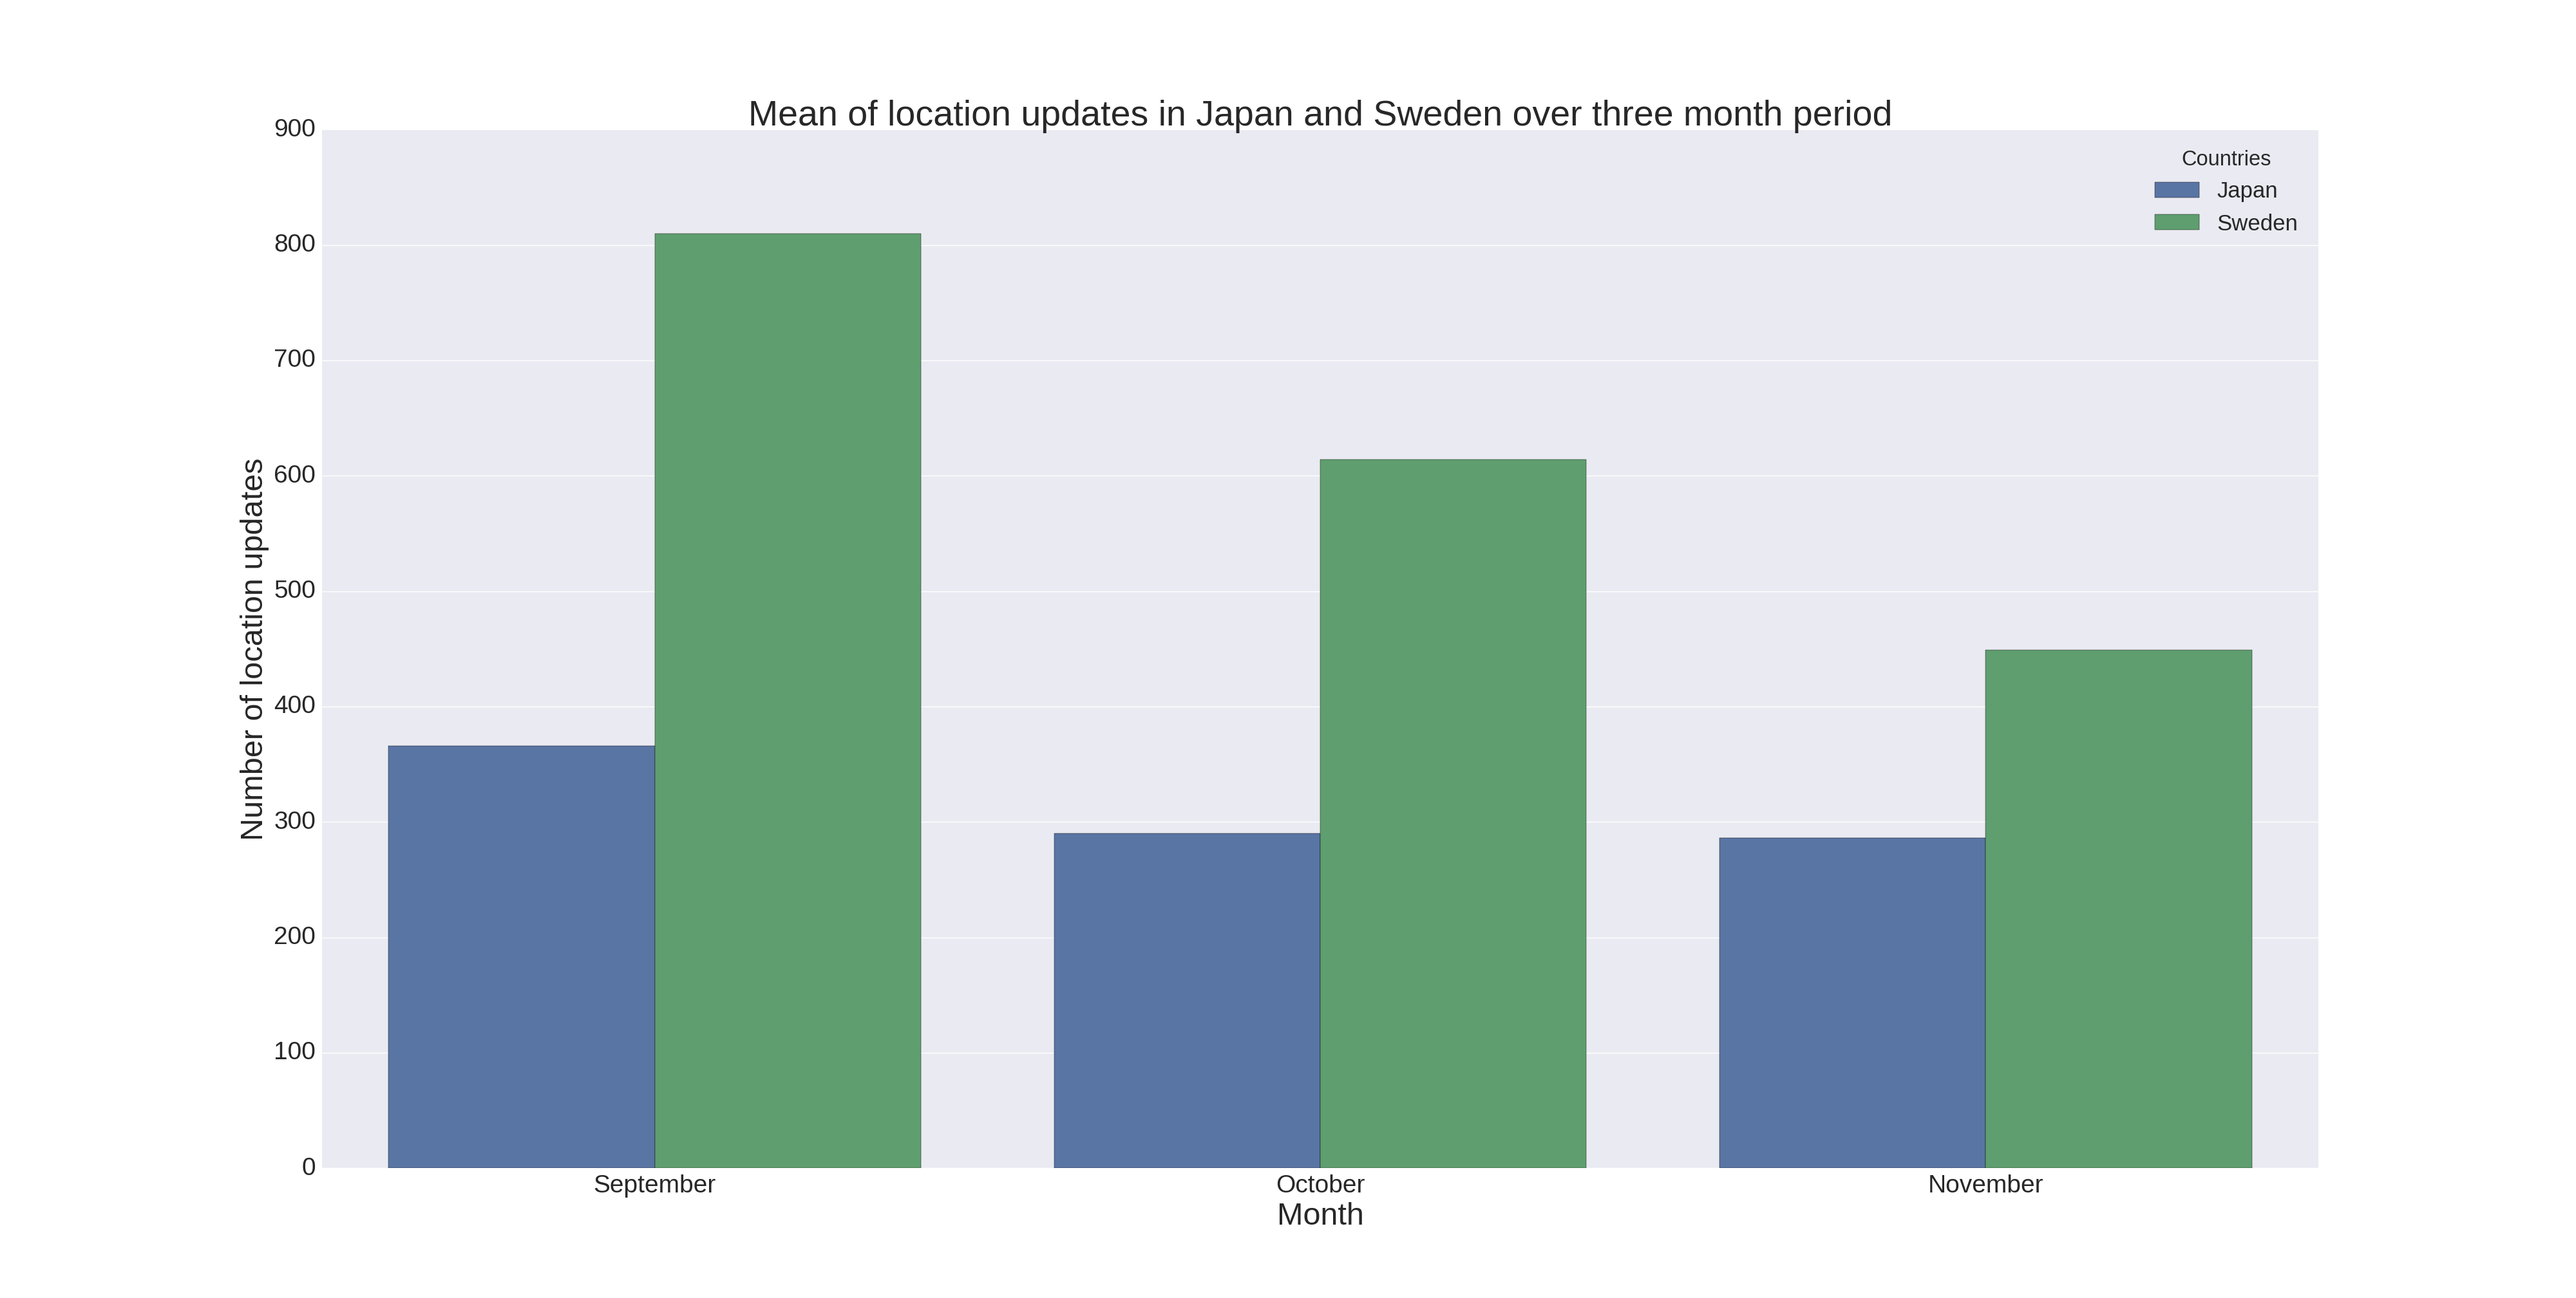
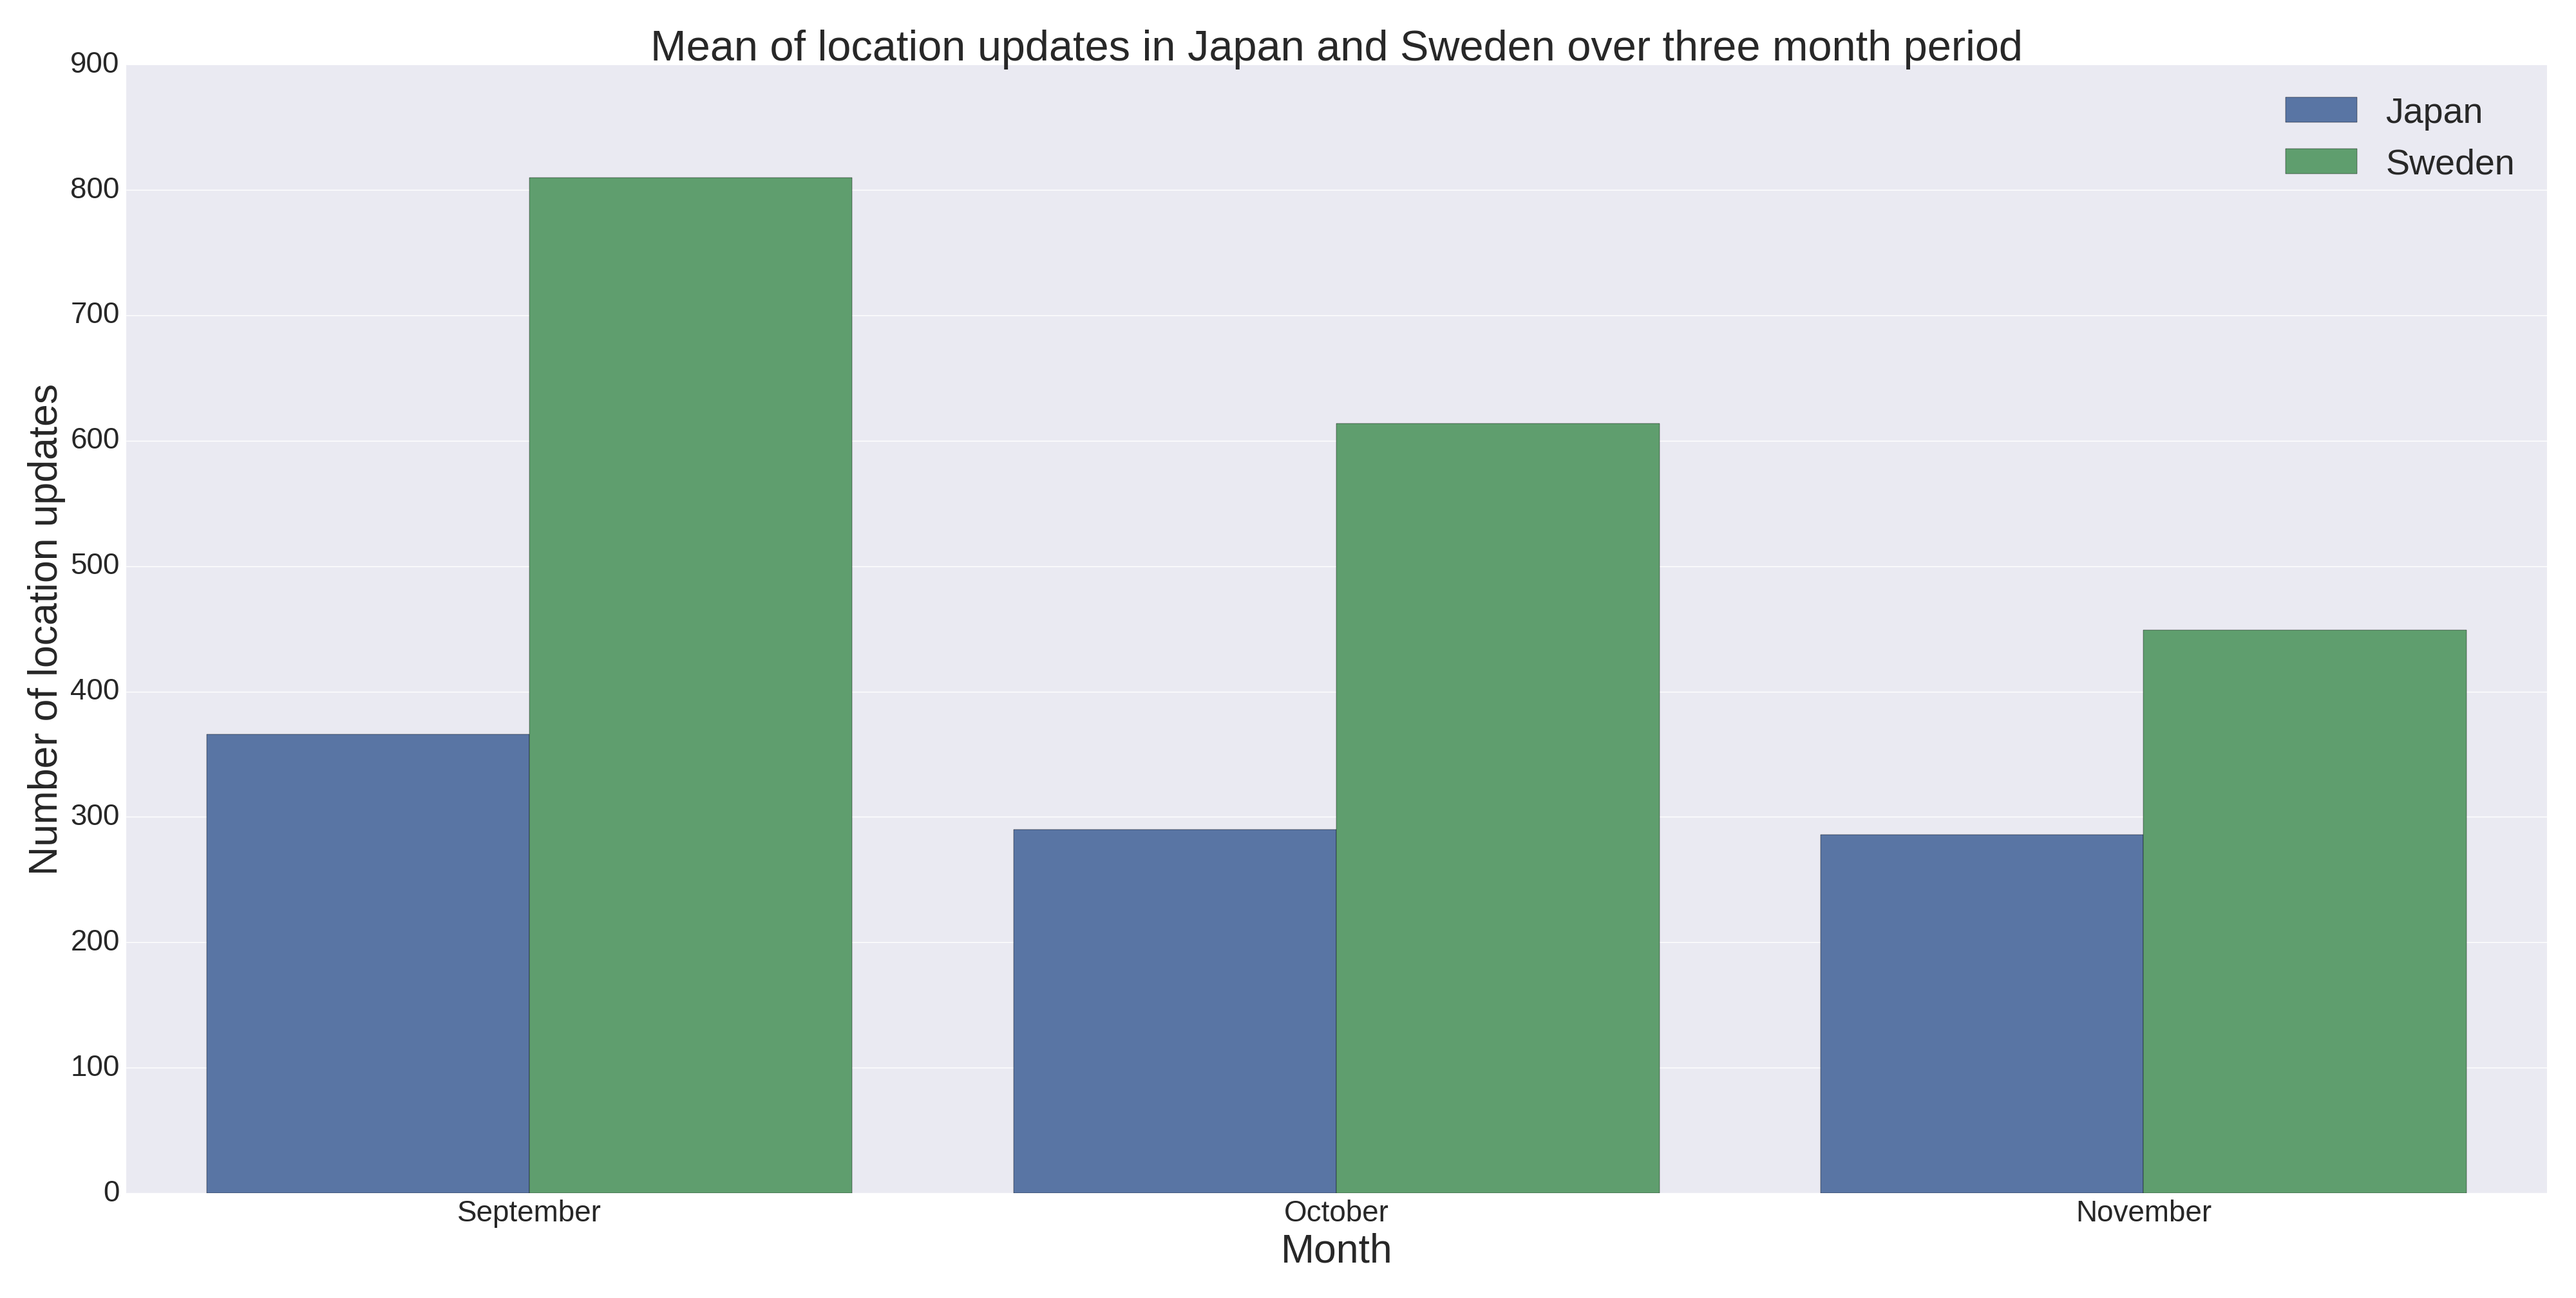
size og legend and other fonts editted in mean_loc

diff --git a/tools/scripts/records_analysis.py b/tools/scripts/records_analysis.py
@@ -448,15 +448,16 @@ def compare_loc_updates_per_month():
     ax.set_ylabel("Number of location updates")
     ax.set_title("Mean of location updates in Japan and Sweden over three month period")
     #ax.set_xlabel("Days")
+    sns.plt.legend(prop={'size': 40})
     sns.plt.tick_params(labelsize=20)
-    [item.set_fontsize(35) for item in [ax.yaxis.label, ax.xaxis.label]]
-    ax.title.set_fontsize(40)
-    [item.set_fontsize(28) for item in ax.get_xticklabels() + ax.get_yticklabels()]
+    [item.set_fontsize(45) for item in [ax.yaxis.label, ax.xaxis.label]]
+    ax.title.set_fontsize(48)
+    [item.set_fontsize(33) for item in ax.get_xticklabels() + ax.get_yticklabels()]
     sns.plt.show()
 
 if __name__ == '__main__':
-    #compare_loc_updates_per_month()
-    #sys.exit(0)
+    compare_loc_updates_per_month()
+    sys.exit(0)
     countries = ["Japan", "Sweden"]
     d = DatabaseHelper.DatabaseHelper()
 
